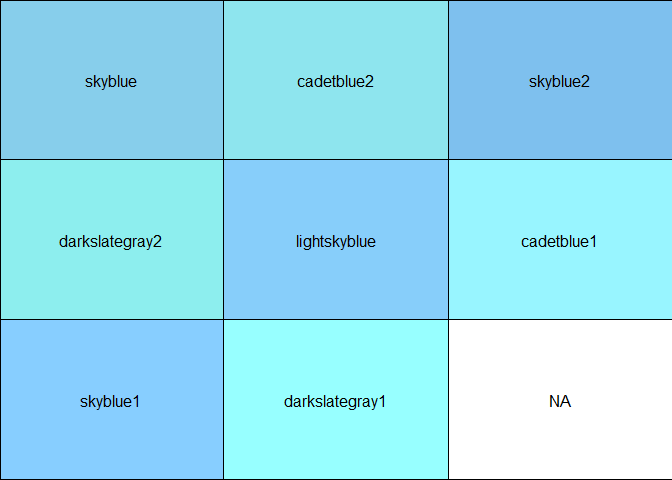
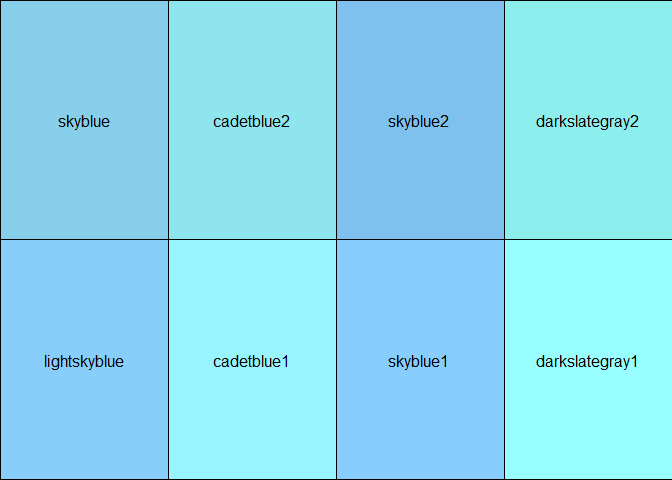
Updated number of rows in vignette and README. Default number of rows for plotCol() back to 1.

diff --git a/README.md b/README.md
@@ -45,14 +45,14 @@ If you’d like to *see* the colors, wrap the results of `nearRcolor()` in
 the `plotCol()` function:
 
 ``` r
-plotCol(nearRcolor("skyblue"))
+plotCol(nearRcolor("skyblue"), nrow = 2)
 #> Loading required package: grid
 ```
 
 <img src="man/figures/README-unnamed-chunk-5-1.png" width="100%" />
 
 ``` r
-plotCol(nearRcolor("tomato"))
+plotCol(nearRcolor("tomato"), nrow = 3)
 ```
 
 <img src="man/figures/README-unnamed-chunk-6-1.png" width="100%" />
